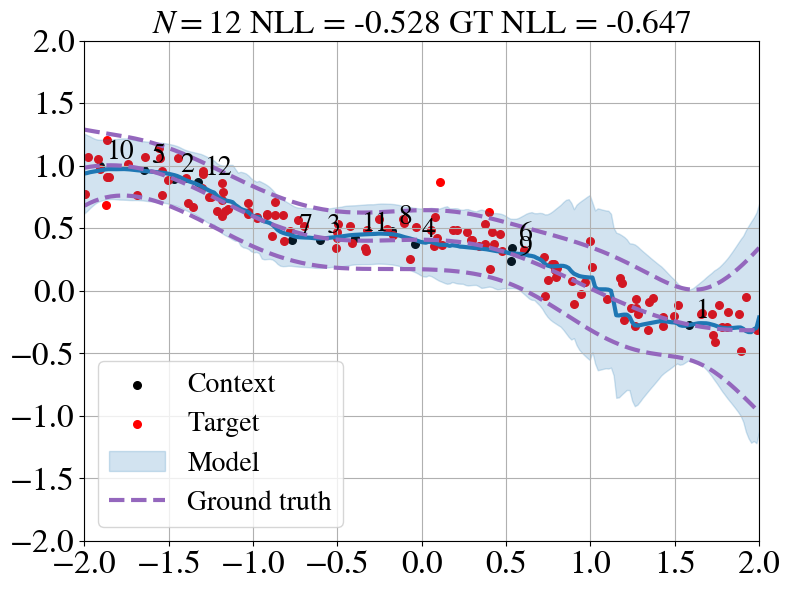
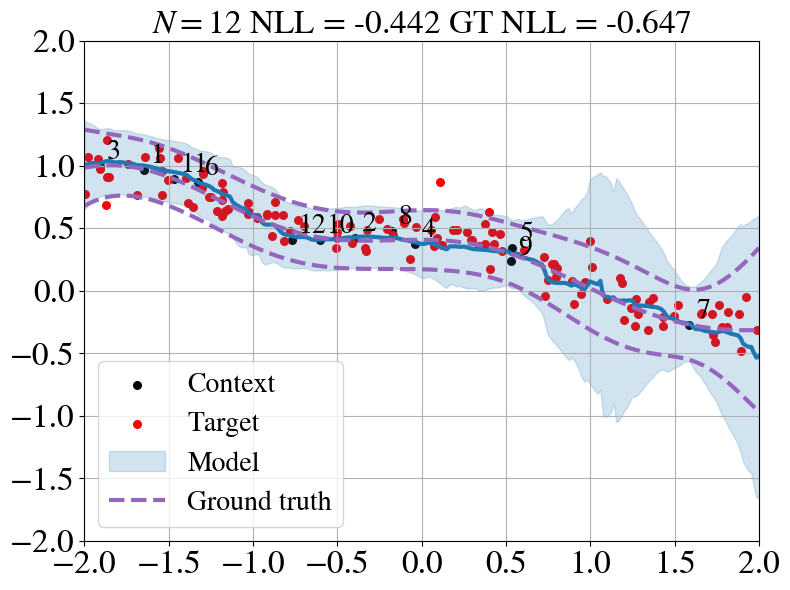
Basic greedy attempt

diff --git a/experiments/plot_adversarial_perms.py b/experiments/plot_adversarial_perms.py
@@ -33,6 +33,8 @@ from hydra.utils import instantiate
 from omegaconf import DictConfig, OmegaConf
 from tnp.utils.experiment_utils import deep_convert_dict, extract_config
 import matplotlib.patheffects as pe
+from tnp.data.base import Batch
+from tnp.models.incTNPBatchedPrior import IncTNPBatchedPrior
 
 
 matplotlib.rcParams["mathtext.fontset"] = "stix"
@@ -443,6 +445,66 @@ def greedy_selection_strats(masked_model, xc: torch.Tensor, yc: torch.Tensor, xt
     return perm, log_p
 
 
+# Uses a greedy variance selection strategy for a masked tnp model that supports conditioning on an empty context sete
+@check_shapes(
+    "xc: [m, nc, dx]", "yc: [m, nc, dy]"
+)
+@torch.no_grad()
+def greedy_variance_ctx_builder(masked_model, xc: torch.Tensor, yc: torch.Tensor, 
+    policy: str = "best", device: str="cuda") -> Tuple[torch.LongTensor, torch.Tensor]:
+    assert policy in {"best", "worst", "median"}, "Invalid policy"
+    assert isinstance(masked_model, IncTNPBatchedPrior), "Only supports specific zero prioir conditioned model atm"
+
+    xc, yc = xc.to(device), yc.to(device)
+    # When deciding the context set ordering, start with an empty context set and build up greedily (or according to some shallow strategy)
+    _, _, dx = xc.shape
+    m, nc, dy = yc.shape
+
+    # Tracks which context points have been picked
+    picked_mask = torch.zeros(m, nc, dtype=torch.bool, device=device) # Stores whether a context point has been picked
+    perm = torch.full((m, nc), -1, dtype=torch.long,  device=device) # Use to record perms - don't use this in a mission critical loop
+    var_track = torch.zeros((m, nc), device=device) # Tracks variance of points over time - again for visualisation not performance
+
+
+    # Incrementally builds up representation
+    batch_idx = torch.arange(m, device=device)
+    xc_new, yc_new = torch.empty((m, 0, dx), device=xc.device), torch.empty((m, 0, dy), device=yc.device)
+    for step in range(nc):
+        # Gathers all unpicked points into a call (vectorised / batch together for speed)
+        not_picked_idx = (~picked_mask).nonzero(as_tuple=False)
+        n_remaining = nc - step
+        idx_remaining = not_picked_idx[:, 1].reshape(m, n_remaining) # [m, n_remaining]
+        xt_candidates = xc[batch_idx.unsqueeze(1), idx_remaining] # [m, n_remaining, dx]
+
+        # Runs inference
+        batch = Batch(xc=xc_new, yc=yc_new, xt=xt_candidates, yt=None, y=None, x=None) # This is dodgy because maybe some models rely on x, yt, y, x
+        #pred_dist = masked_model(xc_new, yc_new, xt_candidates)
+        pred_dist = np_pred_fn(masked_model, batch, predict_without_yt_tnpa=True)
+        var = pred_dist.variance.mean(-1) # [m, n_remaining]
+
+        # Selection strategy
+        if policy == "best": selected_points = var.argmax(dim=1) # [m]
+        elif policy == "worst": selected_points = var.argmin(dim=1) # [m]
+        else: selected_points = var.kthvalue(k=(n_remaining // 2) + 1, dim=1)[1] # [m] - median
+
+        # Selects points per batch
+        selected_points_global = idx_remaining[batch_idx, selected_points] # [m]
+        selected_variance = var[batch_idx, selected_points] # [m]
+
+        # Updates context representation
+        added_xc = xc[batch_idx, selected_points_global].unsqueeze(1)
+        added_yc = yc[batch_idx, selected_points_global].unsqueeze(1)
+        xc_new = torch.cat([xc_new, added_xc], dim=1)
+        yc_new = torch.cat([yc_new, added_yc], dim=1)
+        picked_mask[batch_idx, selected_points_global] = True # Shows that point has been picked
+
+        # Updates tracked stats for visualisation
+        perm[batch_idx, step] = selected_points_global
+        var_track[batch_idx, step] = selected_variance
+
+    return perm, var_track # both have return shape of [m, nc] each
+
+
 # Generates plots of permutations
 @check_shapes(
     "perms: [K, nc]", "log_p: [K]", "xc: [1, nc, dx]", "yc: [1, nc, dy]", "xt: [1, nt, dx]", "yt: [1, nt, dy]"
@@ -450,6 +512,8 @@ def greedy_selection_strats(masked_model, xc: torch.Tensor, yc: torch.Tensor, xt
 def visualise_perms(tnp_model, perms: torch.tensor, log_p: torch.tensor, xc: torch.Tensor, yc: torch.Tensor, xt: torch.Tensor, yt: torch.Tensor, 
     perm_best, inc_logps_best, perm_worst, inc_logps_worst,
     perm_median, inc_logps_median,
+    var_perm_median, inc_vars_median, var_perm_best, inc_vars_best,
+    var_perm_worst, inc_vars_worst,
     folder_path: str="plot_results/adversarial", file_id: str=str(random.randint(0, 1000000)), gt_pred: Optional[GroundTruthPredictor] = None,
     plain_tnp_model = None):
     log_p, indices = torch.sort(log_p)
@@ -494,6 +558,16 @@ def visualise_perms(tnp_model, perms: torch.tensor, log_p: torch.tensor, xc: tor
     plot_parallel_coordinates_bezier(perms=perms_greedy,log_p=log_p_greedy,
          xc=xc, xt=xt, file_name=f"{folder_path}/greedy_parra_cords_{file_id}", plot_targets=plot_targets, alpha_line=1.0)
     plot_log_p_lines([(inc_logps_best, "Best Greedy"), (inc_logps_median, "Median Greedy"), (inc_logps_worst, "Greedy Worst")], f"{folder_path}/greedy_lines_{file_id}", yt.shape[1])
+
+    # Variance greedy plots
+    lines = [(fr"Best Greedy-V (${inc_vars_best[-1]:.2f}$)", "green", inc_vars_best[-1]), (fr"Median Greedy-V (${inc_vars_median[-1]:.2f}$)", "yellow", inc_vars_median[-1]),
+        (fr"Worst Greedy-V (${inc_vars_worst[-1]:.2f}$)", "blue", inc_vars_worst[-1])]
+    perms_greedy = torch.tensor([var_perm_worst, var_perm_median, var_perm_best])
+    log_p_greedy = torch.tensor([inc_vars_worst[-1], inc_vars_median[-1], inc_vars_best[-1]])
+    plot_log_p_bins(log_p.cpu(), f"{folder_path}/bins_dist_vargreedy_lines_id_{file_id}", xc.shape[1], xt.shape[1], plain_tnp_mean, lines)
+    plot_parallel_coordinates_bezier(perms=perms_greedy,log_p=log_p_greedy,
+         xc=xc, xt=xt, file_name=f"{folder_path}/vargreedy_parra_cords_{file_id}", plot_targets=plot_targets, alpha_line=1.0)
+    plot_log_p_lines([(inc_vars_best, "Best Greedy-V"), (inc_vars_median, "Median Greedy-V"), (inc_vars_worst, "Worst Greedy-V")], f"{folder_path}/vargreedy_lines_{file_id}", yt.shape[1])
 
 
 def get_model(config_path, weights_and_bias_ref, device='cuda'):
@@ -553,12 +627,16 @@ if __name__ == "__main__":
         deterministic=True, kernel=kernels)
     data = next(iter(gen_val))
     # Gets plain model - ensure these strings are correct
-    plain_model = get_model('experiments/configs/synthetic1dRBF/gp_plain_tnp.yml', 
+    plain_model = get_model('experiments/configs/synthetic1dRBF/gp_plain_tnp_rangesame.yml', 
         'pm846-university-of-cambridge/plain-tnp-rbf-rangesame/model-7ib3k6ga:v200')
     plain_model.eval()
 
-    masked_model = get_model('experiments/configs/synthetic1dRBF/gp_causal_tnp.yml', 
-        'pm846-university-of-cambridge/mask-tnp-rbf-rangesame/model-vavo8sh2:v200')
+    #masked_model = get_model('experiments/configs/synthetic1dRBF/gp_causal_tnp.yml', 
+    #    'pm846-university-of-cambridge/mask-tnp-rbf-rangesame/model-vavo8sh2:v200')
+    #masked_model.eval()
+
+    masked_model = get_model('experiments/configs/synthetic1dRBF/gp_priorbatched_causal_tnp_rbf_rangesame.yml',
+        'pm846-university-of-cambridge/mask-priorbatched-tnp-rbf-rangesame/model-smgj3gn6:v61')
     masked_model.eval()
 
     # Sorts context in order
@@ -566,18 +644,32 @@ if __name__ == "__main__":
     yc = data.yc
     xc, indices = torch.sort(xc, dim=1)
     yc = torch.gather(yc, dim=1, index=indices)
+
+    print("Getting perms VARIANCE greedy search")
+    start_t = time.time()
+    var_perm_best, inc_vars_best = greedy_variance_ctx_builder(masked_model, xc, yc, policy="best")
+    var_perm_worst, inc_vars_worst = greedy_variance_ctx_builder(masked_model, xc, yc, policy="worst")
+    var_perm_median, inc_vars_median = greedy_variance_ctx_builder(masked_model, xc, yc, policy="median")
+    var_perm_best, inc_vars_best = var_perm_best.squeeze(0).tolist(), inc_vars_best.squeeze(0).tolist()
+    var_perm_worst, inc_vars_worst = var_perm_worst.squeeze(0).tolist(), inc_vars_worst.squeeze(0).tolist()
+    var_perm_median, inc_vars_median = var_perm_median.squeeze(0).tolist(), inc_vars_median.squeeze(0).tolist()
+    print(f'Time for perms VARIANCE greedy search: {time.time()-start_t:.2f}s')
     print("Getting perms greedy search")
     start_t = time.time()
     perm_best, inc_logps_best = greedy_selection_strats(masked_model, xc, yc, data.xt, data.yt, policy="best")
     perm_worst, inc_logps_worst = greedy_selection_strats(masked_model, xc, yc, data.xt, data.yt, policy="worst")
     perm_median, inc_logps_median = greedy_selection_strats(masked_model, xc, yc, data.xt, data.yt, policy="median")
     print(f'Time for perms greedy search: {time.time()-start_t:.2f}s')
+
     print("Starting search")
     perms, log_p, (data_time, inference_time, total_time) = gather_rand_perms(masked_model, xc, yc, data.xt, data.yt, 
-        no_permutations=10_000_000, device='cuda', batch_size=2048)
+        no_permutations=1_000, device='cuda', batch_size=2048)
     print(f"Data time: {data_time:.2f}s, Inference time: {inference_time:.2f}s, Total time: {total_time:.2f}s")
     visualise_perms(masked_model, perms, log_p, xc, yc, data.xt, data.yt,
         folder_path="experiments/plot_results/adversarial", file_id="1", gt_pred=data.gt_pred, 
         plain_tnp_model=plain_model,
         perm_best=perm_best, inc_logps_best=inc_logps_best, perm_worst=perm_worst, inc_logps_worst=inc_logps_worst,
-        perm_median=perm_median, inc_logps_median=inc_logps_median)
+        perm_median=perm_median, inc_logps_median=inc_logps_median,
+        var_perm_median=var_perm_median, inc_vars_median=inc_vars_median, var_perm_best=var_perm_best, inc_vars_best=inc_vars_best,
+        var_perm_worst=var_perm_worst, inc_vars_worst=inc_vars_worst
+        )

diff --git a/tnp/models/base.py b/tnp/models/base.py
@@ -3,6 +3,7 @@ from abc import ABC
 import torch
 from check_shapes import check_shapes
 from torch import nn
+from typing import Optional, Union
 
 from ..likelihoods.base import UniformMixtureLikelihood
 
@@ -120,18 +121,18 @@ class BatchedCausalTNPPrior(BaseNeuralProcess):
         "xc: [m, nc, dx]",
         "yc: [m, nc, dy]",
         "xt: [m, nt, dx]",
-        "yt: [m, nt_, dy]",
     )
     def forward(
         self,
         xc: torch.Tensor,
         yc: torch.Tensor,
         xt: torch.Tensor,
-        yt: torch.Tensor,
+        yt: Optional[torch.Tensor] = None,
     ) -> torch.distributions.Distribution:
+        if yt is not None: assert yt.shape[0] == xc.shape[0] and yt.shape[2] == yc.shape[2], "Invalid yt shape"
         # AR style training
         if self.training:
-            assert xt.shape[1] == yt.shape[1], "xt and yt must both be same length when training"
+            assert yt is not None and xt.shape[1] == yt.shape[1], "xt and yt must both be same length when training"
             # Consider permuting this in future?
             x = torch.cat((xc, xt), dim=1)
             y = torch.cat((yc, yt), dim=1)
